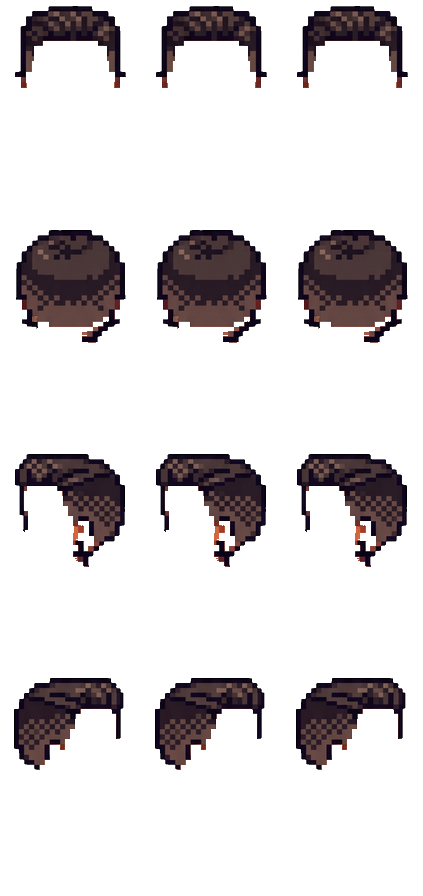
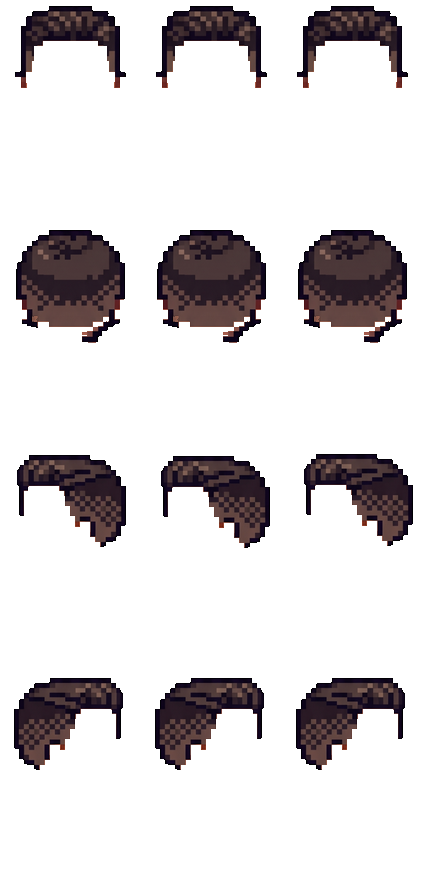
feat(char): mirror_direction.py - 잘 나온 방향을 base 머리위치에 맞춰 반전복사 / 아이비리그컷 우->좌 적용 (sw v262)

Changed region(s): [[0.7069, 0.5, 0.9835, 0.6562], [0.3688, 0.5, 0.6454, 0.6562], [0.0307, 0.5, 0.3073, 0.6562]]

diff --git a/index.html b/index.html
@@ -2041,7 +2041,7 @@ window.CHAR_ITEMS = [
   { id: 'shoes_black', slot: 'shoes', body: 'human', name: '검정 러닝화', price: 0, sheet: 'char/items/shoes_black.png', thumb: 'char/items/shoes_black_thumb.png' }
 ];
 // 아이템 이미지 캐시버전 — 아이템 시트/썸네일 바꿀 때마다 올리면 SW 캐시 무시하고 새로 받음
-window._ITEM_V = 78;
+window._ITEM_V = 79;
 window._iv = function (u) { return u ? (u + (u.indexOf('?') < 0 ? '?v=' : '&v=') + (window._ITEM_V || 1)) : u; };
 window.CHAR_FREE = ['hair_short', 'top_tee', 'mask_simple'];
 window.CHAR_SHAPES = {

diff --git a/sw.js b/sw.js
@@ -1,7 +1,7 @@
 // 배포마다 이 버전을 올려야 자동 새버전 적용(새로고침)이 동작함
-const CACHE_NAME = 'murpy-v261';
-const STATIC_CACHE = 'murpy-static-v261';
-const CDN_CACHE = 'murpy-cdn-v261';
+const CACHE_NAME = 'murpy-v262';
+const STATIC_CACHE = 'murpy-static-v262';
+const CDN_CACHE = 'murpy-cdn-v262';
 // 이미지 캐시는 버전 안 붙임 → 코드/HTML 배포해도 유지(URL이 곧 버전)
 const IMG_CACHE = 'murpy-img';
 

diff --git a/char/mirror_direction.py b/char/mirror_direction.py
@@ -1,0 +1,100 @@
+# -*- coding: utf-8 -*-
+"""잘 나온 방향을 좌우반전해 반대 방향을 만든다.
+
+★왜 필요한가 (2026-07-31, 대표 지시)
+AI가 4방향을 그리면 한쪽만 잘 나오는 일이 흔하다(아이비리그컷 = 우향은 깨끗, 좌향은 지저분).
+머리는 좌우대칭이므로 **잘 나온 쪽을 뒤집어 쓰는 게 다시 뽑는 것보다 확실하다.**
+
+★그냥 뒤집으면 안 된다 — base(walk.png)의 좌향/우향은 서로 정확한 거울상이 아니다.
+  걸음 자세가 다르고 머리 위치도 1~3px 어긋난다. 그래서 **base의 머리 위치에 맞춰 정렬**한다.
+  (열마다 따로 잰다. 걸음 프레임마다 머리가 움직이기 때문.)
+
+    python char/mirror_direction.py hair_ivyleague 3 2      # 우(3) -> 좌(2)
+    python char/mirror_direction.py hair_ivyleague 2 3      # 좌(2) -> 우(3)
+"""
+import os
+import sys
+
+import numpy as np
+from PIL import Image
+from scipy import ndimage
+
+if hasattr(sys.stdout, "reconfigure"):
+    sys.stdout.reconfigure(encoding="utf-8", errors="replace")
+
+HERE = os.path.dirname(os.path.abspath(__file__))
+CW, CH = 141, 224
+ROWS = ["정면", "후면", "좌", "우"]
+HEAD_H = 78
+
+
+def largest(m):
+    lab, n = ndimage.label(m, np.ones((3, 3), bool))
+    if n <= 1:
+        return m
+    s = ndimage.sum(m, lab, range(1, n + 1))
+    return lab == (int(np.argmax(s)) + 1)
+
+
+def head_center(bc):
+    """base 셀에서 머리 구간의 가로 중심과 최상단 y. 정렬 기준."""
+    bm = largest(bc[:, :, 3] >= 128)
+    ys = np.where(bm.any(axis=1))[0]
+    top = int(ys.min())
+    xs = np.where(bm[top:top + HEAD_H].any(axis=0))[0]
+    return (int(xs.min()) + int(xs.max())) / 2.0, top
+
+
+def main():
+    if len(sys.argv) < 4:
+        print(__doc__)
+        return
+    item, src_r, dst_r = sys.argv[1], int(sys.argv[2]), int(sys.argv[3])
+    ip = os.path.join(HERE, "items", item + ".png")
+    sheet = Image.open(ip).convert("RGBA")
+    a = np.asarray(sheet).astype(int).copy()
+
+    # 여캐 아이템이면 여캐 base
+    walk = "walk_female.png" if "_f_" in item else "walk.png"
+    base = np.asarray(Image.open(os.path.join(HERE, walk)).convert("RGBA")).astype(int)
+
+    print("■ %s : %s(row%d) -> %s(row%d)" % (item, ROWS[src_r], src_r, ROWS[dst_r], dst_r))
+    for c in range(3):
+        sb = base[src_r * CH:(src_r + 1) * CH, c * CW:(c + 1) * CW]
+        db = base[dst_r * CH:(dst_r + 1) * CH, c * CW:(c + 1) * CW]
+        scx, stop = head_center(sb)
+        dcx, dtop = head_center(db)
+
+        cell = a[src_r * CH:(src_r + 1) * CH, c * CW:(c + 1) * CW]
+        flip = cell[:, ::-1, :].copy()          # 좌우 반전
+        # 반전하면 중심이 (CW-1-scx) 로 간다. 목표 중심까지 평행이동.
+        dx = int(round(dcx - (CW - 1 - scx)))
+        dy = int(round(dtop - stop))
+        out = np.zeros_like(flip)
+        ys0, ys1 = max(0, dy), min(CH, CH + dy)
+        xs0, xs1 = max(0, dx), min(CW, CW + dx)
+        out[ys0:ys1, xs0:xs1] = flip[ys0 - dy:ys1 - dy, xs0 - dx:xs1 - dx]
+
+        a[dst_r * CH:(dst_r + 1) * CH, c * CW:(c + 1) * CW] = out
+        print("   col%d  이동 dx=%+d dy=%+d  (머리중심 %.1f -> %.1f)" % (c, dx, dy, scx, dcx))
+
+    # 알파 이진화 (하드룰)
+    keep = a[:, :, 3] >= 128
+    a[:, :, 3] = np.where(keep, 255, 0)
+    a[~keep] = 0
+    Image.fromarray(a.astype(np.uint8), "RGBA").save(ip)
+    print("   -> items/%s.png 저장" % item)
+
+    # 썸네일 = 정면 전신
+    t = Image.new("RGBA", (CW, CH), (0, 0, 0, 0))
+    t.alpha_composite(Image.fromarray(base[0:CH, 0:CW].astype(np.uint8), "RGBA"))
+    t.alpha_composite(Image.open(ip).crop((0, 0, CW, CH)))
+    ta = np.asarray(t)[:, :, 3]
+    ys, xs = np.where(ta > 0)
+    t.crop((int(xs.min()), int(ys.min()), int(xs.max()) + 1, int(ys.max()) + 1)).save(
+        os.path.join(HERE, "items", item + "_thumb.png"))
+    print("   -> 썸네일 갱신")
+
+
+if __name__ == "__main__":
+    main()
